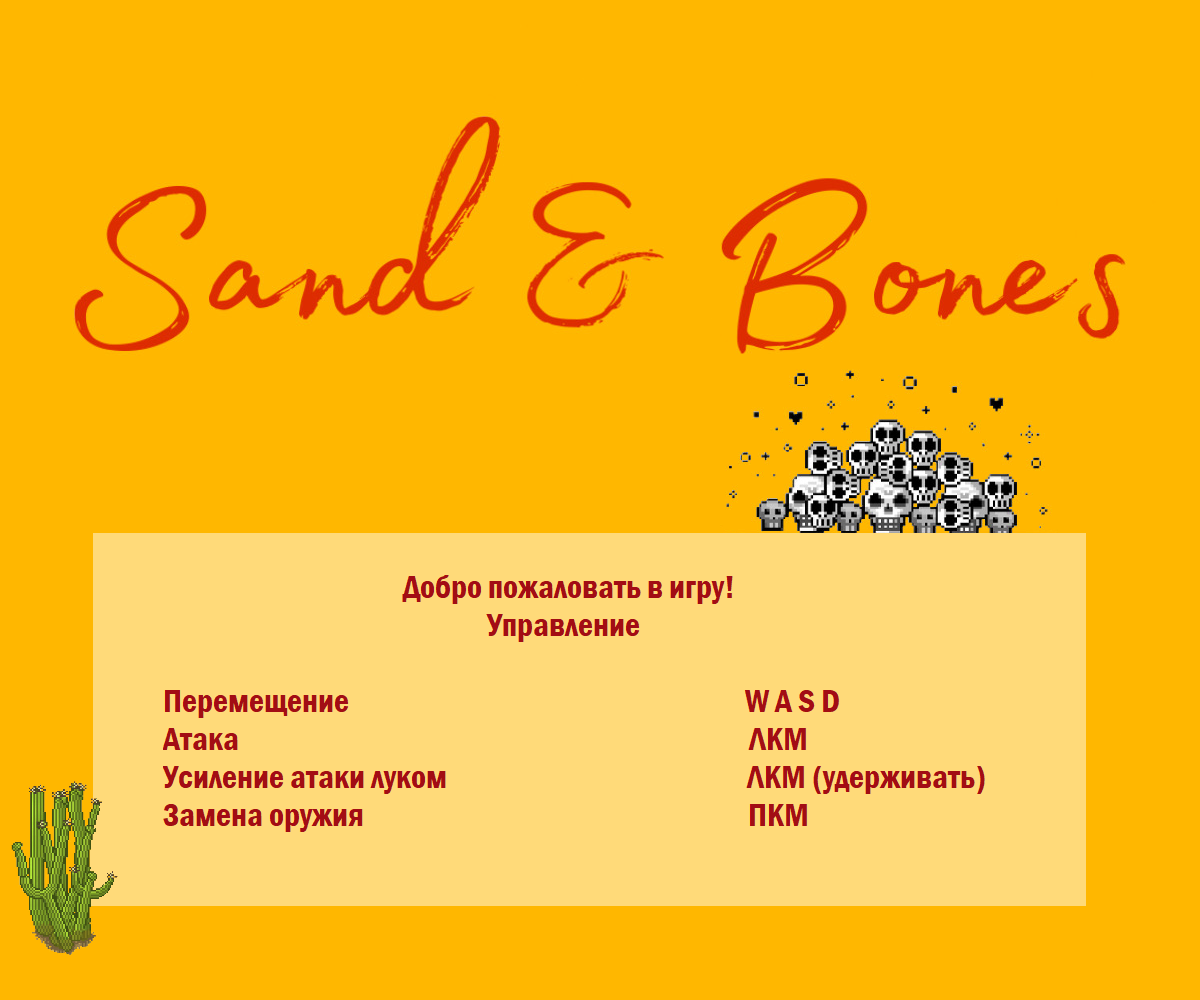
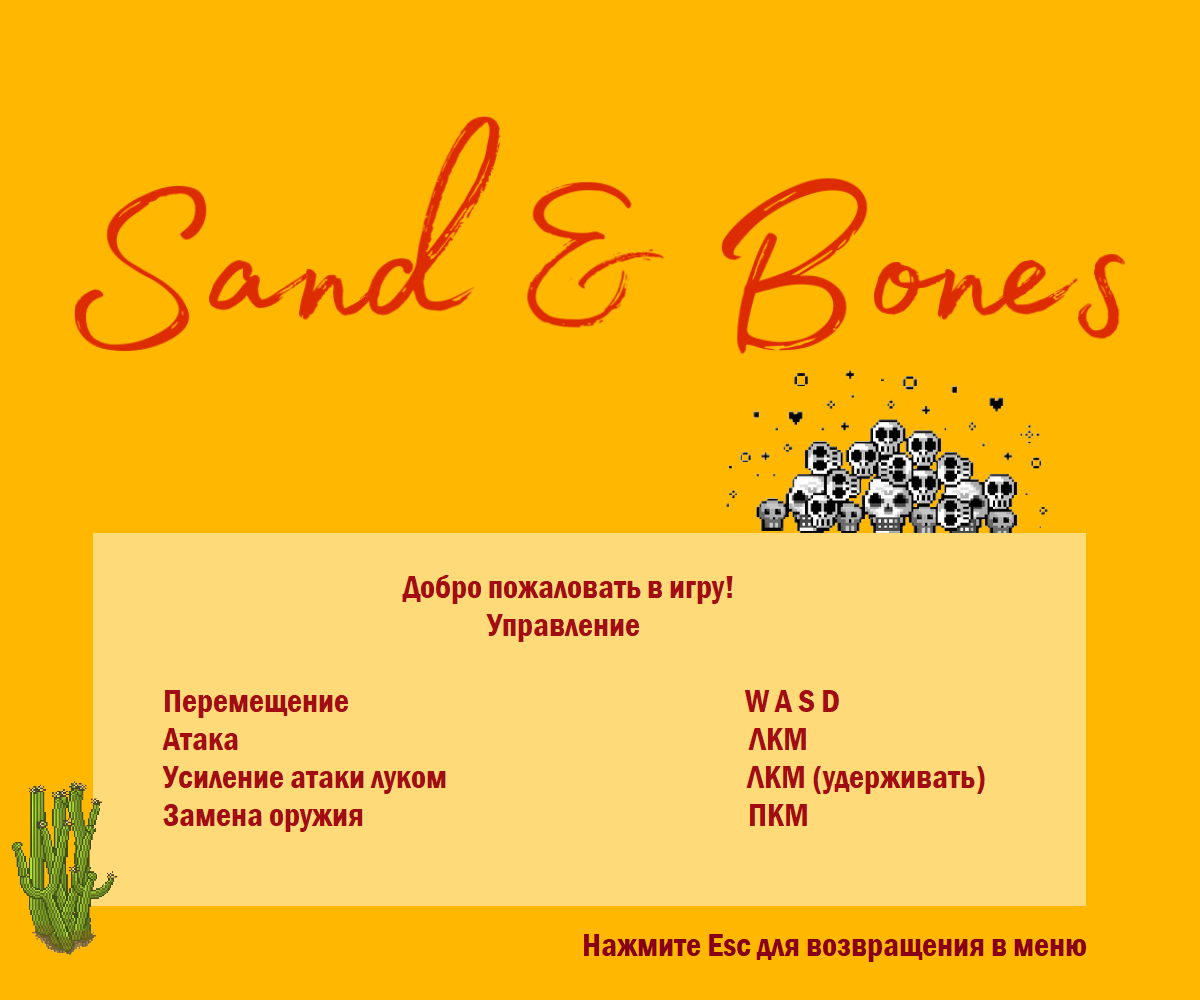
справила баг со стрелами в test_main исправила класс аптечек

Changed region(s): [[0.4625, 0.93, 0.925, 0.961]]

diff --git a/traveller_last_version/test_main.py b/traveller_last_version/test_main.py
@@ -490,16 +490,28 @@ def sustain_all(units, walls, arrows, sword, flag, timer):
     return ((flag, timer))
 
 def start_menu():
-    global place, tick, finished, walls, units, sword, bow, units_data
+    global place, finished
     for event in pygame.event.get():
         if event.type == pygame.QUIT:
             finished = True
         if event.type == pygame.MOUSEBUTTONDOWN:
             if start_b.press() == True:
-                place = 'start'
+                place = 'story'
+            if how_b.press() == True:
+                place = 'how'
     screen.blit(pic_menu, [0, 0])
     pygame.display.update()
 
+def start_how():
+    global place, finished
+    for event in pygame.event.get():
+        if event.type == pygame.QUIT:
+            finished = True
+        if event.type == pygame.KEYDOWN:
+            if event.key == pygame.K_ESCAPE:
+                place = 'menu'
+    screen.blit(pic_how, [0, 0])
+    pygame.display.update()
 
 def start_game():
     global walls, units, sword, bow, arrows, units_data, flag, timer, finished, tick, place
@@ -514,6 +526,8 @@ def start_game():
                 finished = True
             if event.type == pygame.KEYDOWN:
                 units[0].change_direction(event, walls)
+                if event.key == pygame.K_ESCAPE:
+                    units[0].hp = 0
             elif event.type == pygame.KEYUP:
                 units[0].change_direction(event, walls)
             elif event.type == pygame.MOUSEBUTTONDOWN and event.button == 1:
@@ -534,6 +548,20 @@ def start_game():
         vis_evil_create(units)
         vis_evil(units, tick)
 
+def start_story():
+    global place, finished
+    for event in pygame.event.get():
+        if event.type == pygame.QUIT:
+            finished = True
+        if event.type == pygame.KEYDOWN:
+            if event.key == pygame.K_SPACE:
+                place = 'start'
+            if event.key == pygame.K_ESCAPE:
+                place = 'menu'
+    screen.blit(pic_start, [0, 0])
+    pygame.display.update()
+
+
 
 
 
@@ -545,8 +573,12 @@ while not finished:
     clock.tick(FPS)
     if place == 'menu':
         start_menu()
-    if place == 'start':
+    elif place == 'start':
         start_game()
+    elif place == 'how':
+        start_how()
+    elif place == 'story':
+        start_story()
     tick = tick + 1
    # pygame.display.update()
 pygame.quit()

diff --git a/traveller_last_version/menu.py b/traveller_last_version/menu.py
@@ -2,6 +2,7 @@ import pygame
 
 pic_menu = pygame.image.load("mainmenugame.png").convert()
 pic_how = pygame.image.load("how.png").convert()
+pic_start = pygame.image.load("start.png").convert()
 
 place = 'menu'
 
@@ -17,6 +18,7 @@ class Button:
         if mouse[0] < self.x + self.w and mouse[0] > self.x and mouse[1] < self.y + self.h and mouse[1] > self.y:
             return True
         return False
+
 
 
 
